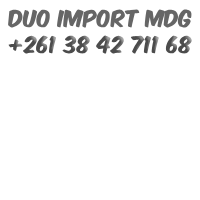
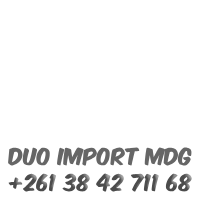
Ajout de watermark bis 3

diff --git a/src/Controller/ArticleController.php b/src/Controller/ArticleController.php
@@ -56,7 +56,7 @@ class ArticleController extends AbstractController
                 $watermarkPath = $this->getParameter('watermark_directory');
                 $watermark = $imagine->open($watermarkPath);
                 $watermark->resize(new Box($imageSize->getWidth() / 2, $imageSize->getWidth() / 2));
-                $watermarkPosition = new Point(0, 0);
+                $watermarkPosition = new Point(0, $imageSize->getHeight() - ($imageSize->getWidth() / 2));
                 $image->paste($watermark, $watermarkPosition);
                 $image->save($this->getParameter('images_directory').'/'.$fichier);
 
